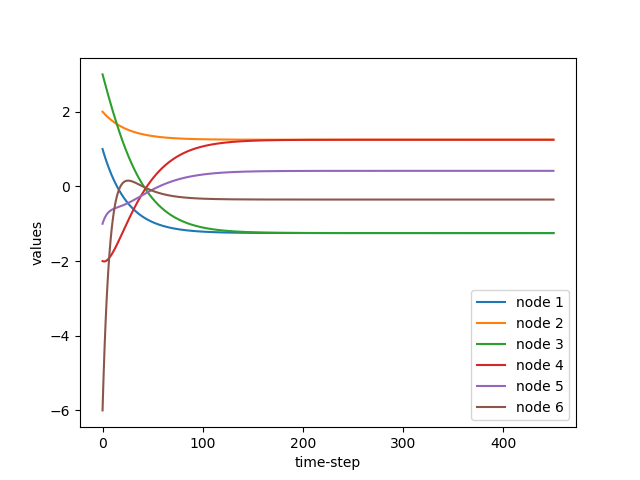
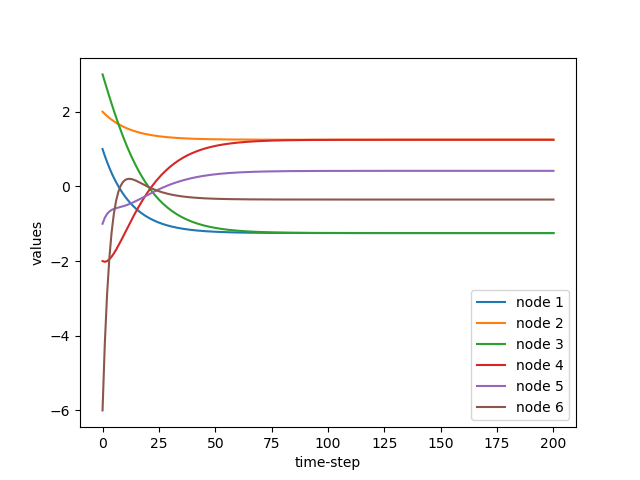
week_6

diff --git a/week_6/interval_bipartite_consensus.py b/week_6/interval_bipartite_consensus.py
@@ -3,6 +3,7 @@
 # Digraphs
 import matplotlib.pyplot as plt
 import networkx as nx
+import numpy as np
 
 # for fix topology
 global graph
@@ -38,9 +39,9 @@ def interval_bipartite_consensus(graph_no):
     edges2 = [(1, 3, 5.0), (2, 1, -3.0), (2, 5, -4.0), (2, 4, 2.0), (3, 2, 1.0),
               (3, 6, -6.0), (4, 5, 8.0), (5, 6, 7.0)]
     edges3 = [(2, 1, -3.0), (1, 3, 5.0), (1, 2, -1.0), (2, 4, 2.0),
-              (3, 5, 4.0), (3, 6, 6.0), (3, 4, -9.0), (4, 5, 8.0), (5, 6, 7.0)]
+              (3, 4, -9.0), (3, 5, 4.0), (3, 6, 6.0), (4, 5, 8.0), (5, 6, 7.0)]
     edges4 = [(2, 1, -3.0), (1, 3, 5.0), (1, 2, -1.0), (2, 4, 2.0),
-              (3, 5, 4.0), (3, 6, 6.0), (3, 4, 9.0), (4, 5, 8.0), (5, 6, -7.0)]
+              (3, 4, 9.0), (3, 5, 4.0), (4, 5, 8.0), (5, 6, -7.0), (6, 3, 6.0)]
 
     graph = nx.DiGraph()
 
@@ -57,10 +58,10 @@ def interval_bipartite_consensus(graph_no):
         graph.add_weighted_edges_from(edges4)
 
     X = [[1], [2], [3], [-2], [-1], [-6]]
-    y = 0.01
+    y = 0.02
 
     '''start interaction'''
-    for time_step in range(450):
+    for time_step in range(200):
         for i in range(len(X)):
             current_value = X[i][time_step]
             in_edges = graph.in_edges(i + 1)
@@ -73,7 +74,10 @@ def interval_bipartite_consensus(graph_no):
             X[i].append(next_value)
     plt.xlabel("time-step")
     plt.ylabel("values")
-    x_axis = range(451)
+    x_axis = range(201)
+
+    tmp = np.array(X)
+    print(tmp[:, -1])
     for i in graph.nodes():
         plt.plot(x_axis, X[i - 1], label='node ' + str(i))
     plt.legend(loc='best', ncol=1)
